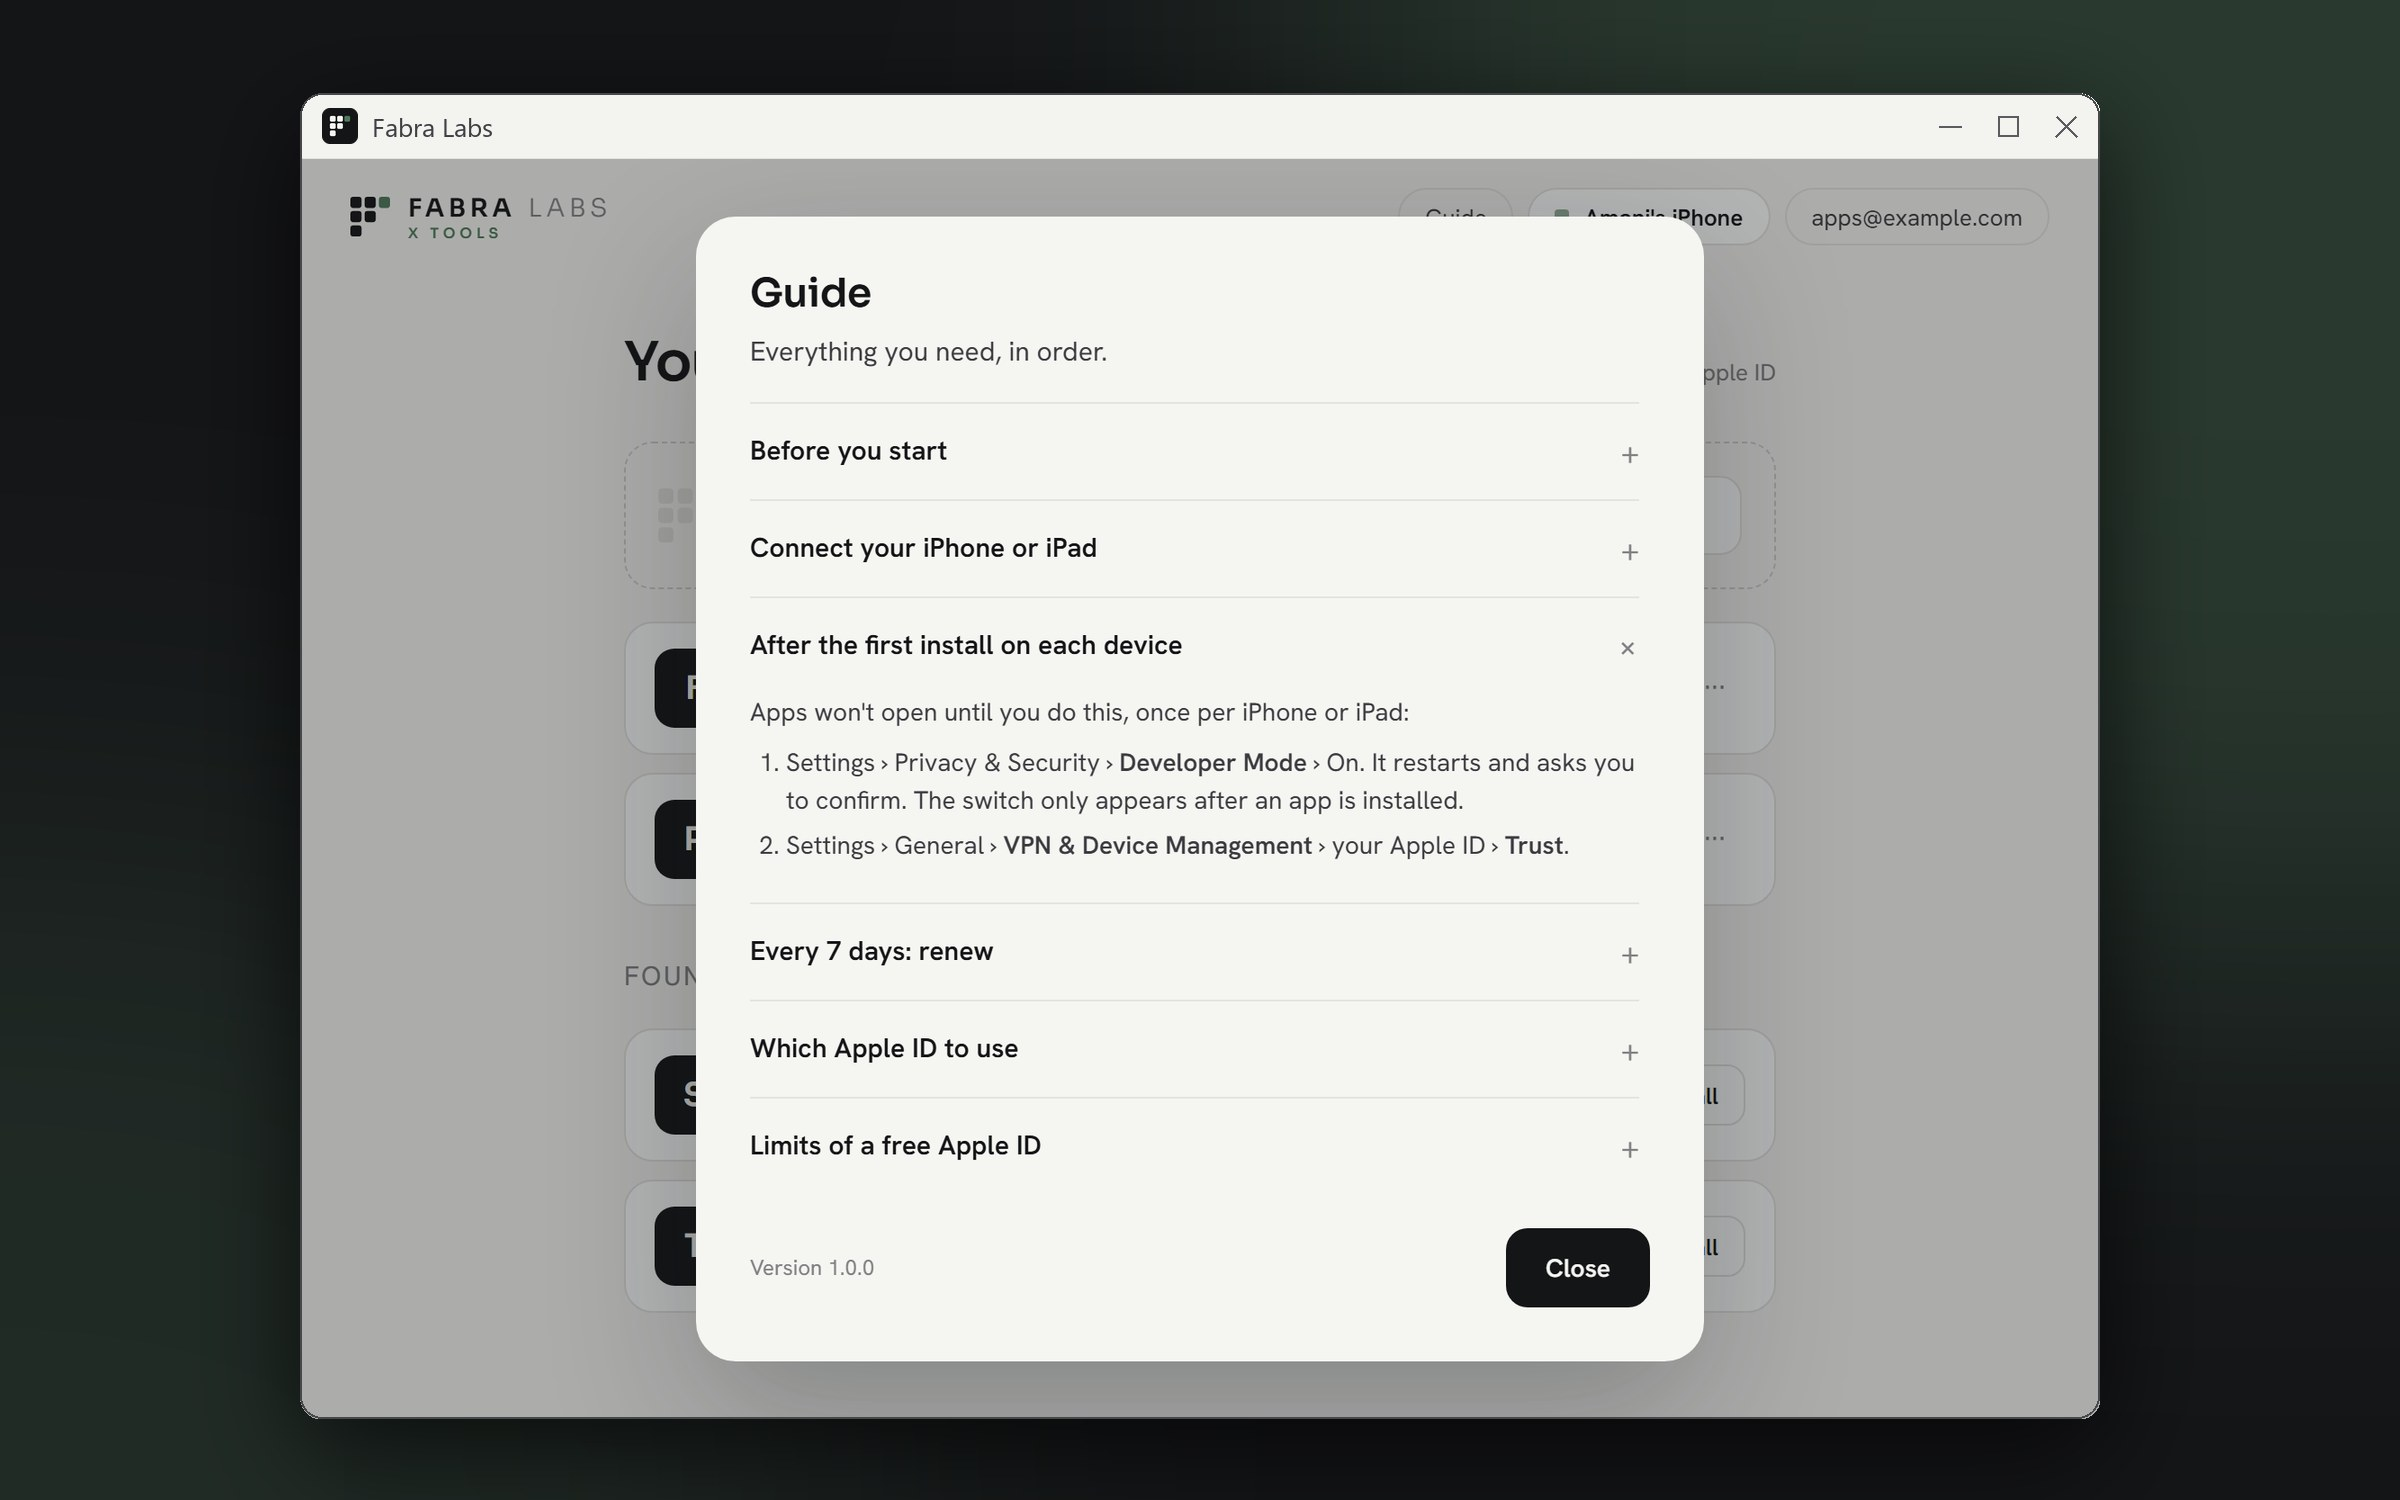
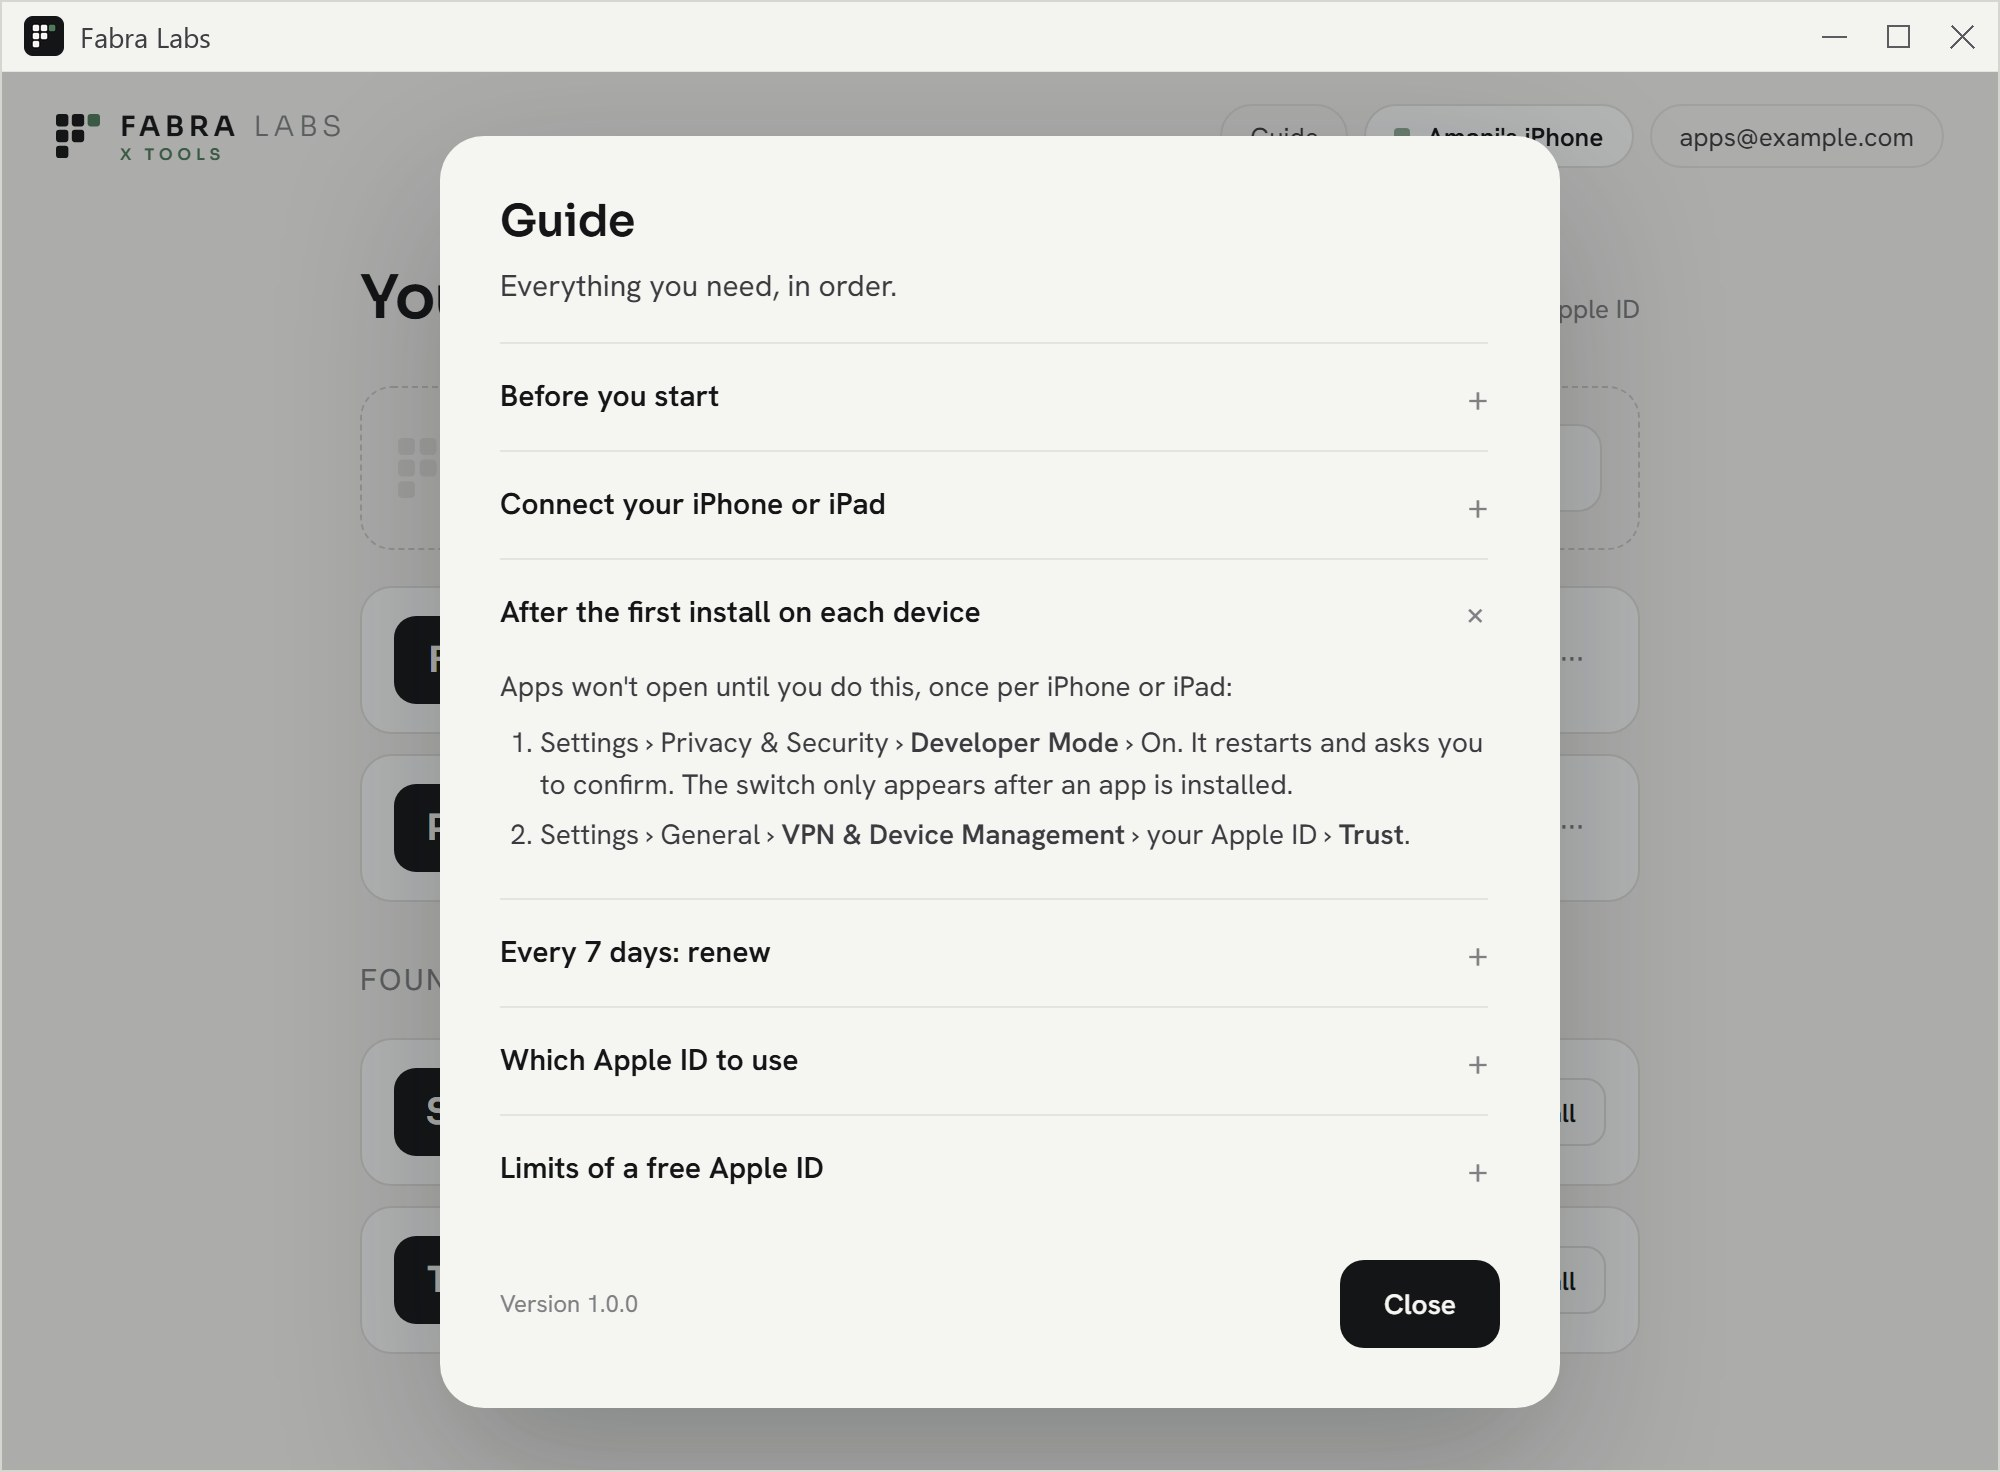
Work: one stacked tile per screen project when projects mix
In All and in a category, a system, tool or website with several screens
shows as one stack (its first screen on top, the next two peeking out to
the right, or above for tall screens) with its screen count; on hover the
stack fans out a little, and a click opens the project page. Choosing the
project still shows every screen. Fabra Labs screens are now just the app
window, without the backdrop.

diff --git a/components/WorkBrowser.tsx b/components/WorkBrowser.tsx
@@ -100,6 +100,23 @@ export default function WorkBrowser({ cats, initial }: { cats: Cat[]; initial: S
     return cs.flatMap((c) => c.collections.filter((x) => !col || x === col).flatMap((x) => x.shots));
   }, [cats, cat, col]);
   const shots = useMemo(() => (sel.t ? inCol.filter(ofKind(sel.t)) : inCol), [inCol, sel.t]);
+  // Systems, tools, websites: when the view mixes projects, each project's screens
+  // become ONE stacked tile (its first screen on top) that opens the project page,
+  // so a project with many screens doesn't fill the page. One project chosen: every screen.
+  const items = useMemo(() => {
+    const out: ({ kind: 'shot'; p: Shot; i: number } | { kind: 'stack'; ps: Shot[] })[] = [];
+    const stacks = new Map<string, Shot[]>();
+    shots.forEach((p, i) => {
+      if (col || !p.linked) return void out.push({ kind: 'shot', p, i });
+      const ps = stacks.get(p.slug);
+      if (ps) return void ps.push(p);
+      const fresh = [p];
+      stacks.set(p.slug, fresh);
+      out.push({ kind: 'stack', ps: fresh });
+    });
+    // a "stack" of one is just a tile
+    return out.map((it) => (it.kind === 'stack' && it.ps.length === 1 ? { kind: 'shot' as const, p: it.ps[0], i: shots.indexOf(it.ps[0]) } : it));
+  }, [shots, col]);
   // a category with videos gets a third wheel: all, photos, videos
   const hasVideo = Boolean(cat?.collections.some((x) => x.shots.some((p) => p.video)));
 
@@ -154,7 +171,24 @@ export default function WorkBrowser({ cats, initial }: { cats: Cat[]; initial: S
       {shots.length ? (
         // every shot a landscape screen (the websites): wide tiles, three across
         <div className={`wb__grid${shots.every((p) => p.screen && p.w > p.h) ? ' wb__grid--wide' : ''}`}>
-          {shots.map((p, i) => (
+          {items.map((it) => it.kind === 'stack' ? (
+            <figure key={`stack-${it.ps[0].slug}`} className={`wb__shot wb__shot--screen wb__shot--stack${it.ps[0].w < it.ps[0].h ? ' is-tall' : ''}`}
+              style={{ '--ar': (it.ps[0].w / it.ps[0].h).toFixed(4) } as React.CSSProperties}>
+              <Link className="wb__stack" href={`/work/${it.ps[0].slug}`} onClick={() => track(`Open project · ${it.ps[0].project}`)}
+                aria-label={`${it.ps[0].project}: ${it.ps.length} screens. Open the project`}>
+                {/* the next two screens peek out behind the first, like a stack of cards */}
+                {it.ps.slice(1, 3).reverse().map((p, k, back) => (
+                  <span key={p.src} className={`wb__stack-card wb__stack-card--${back.length - k}`} aria-hidden="true">
+                    <img src={p.src} alt="" width={p.w} height={p.h} loading="lazy" />
+                  </span>
+                ))}
+                <span className="wb__media"><img src={it.ps[0].src} alt={it.ps[0].alt} width={it.ps[0].w} height={it.ps[0].h} loading="eager" /></span>
+              </Link>
+              <Link className="wb__shot-link mono" href={`/work/${it.ps[0].slug}`} onClick={() => track(`Open project · ${it.ps[0].project}`)}>
+                <span>{it.ps[0].project}</span><span className="wb__stack-count">{it.ps.length} screens <span aria-hidden="true">↗</span></span>
+              </Link>
+            </figure>
+          ) : (({ p, i }) => (
             <figure key={p.src} className={`wb__shot${p.video ? ' wb__shot--video' : ''}${p.screen ? ' wb__shot--screen' : ''}`} style={p.screen ? { '--ar': (p.w / p.h).toFixed(4) } as React.CSSProperties : undefined}>
               <button type="button" onClick={() => { setViewing(i); track(`View ${p.video ? 'video' : 'photo'} · ${p.project}`); }}
                 aria-label={`View ${p.project}, ${p.video ? 'video' : 'photo'} ${p.n}: ${p.alt}`}
@@ -174,7 +208,7 @@ export default function WorkBrowser({ cats, initial }: { cats: Cat[]; initial: S
                 </Link>
               )}
             </figure>
-          ))}
+          ))(it))}
         </div>
       ) : (
         <p className="wb__empty lead">Coming soon.</p>

diff --git a/app/globals.css b/app/globals.css
@@ -727,6 +727,37 @@ body.menu-open .site-header--over-work .wordmark { opacity: 1 !important; pointe
 .wb__grid--wide .wb__shot--screen button:hover img { transform: scale(1.08); }
 @media (max-width: 1000px) { .wb__grid--wide { grid-template-columns: repeat(2, minmax(0, 1fr)); } }
 @media (max-width: 720px) { .wb__grid--wide { grid-template-columns: minmax(0, 1fr); } }
+/* a project's screens as one stack: the first on top, the next two peeking out
+   behind it (to the right for landscape screens, above for tall ones); on hover
+   they fan out a little further, and a click opens the project page */
+.wb__stack {
+  display: grid; place-items: center; width: 100%; aspect-ratio: 4 / 5; container-type: size;
+  background: var(--paper-deep); overflow: hidden; cursor: pointer;
+}
+.wb__stack:focus-visible { outline: 1px solid var(--ink); outline-offset: 3px; }
+.wb__shot--stack .wb__media, .wb__stack-card {
+  grid-area: 1 / 1; width: min(76cqw, calc(76cqh * var(--ar))); aspect-ratio: var(--ar); height: auto;
+  overflow: hidden; border-radius: 6px; box-shadow: 0 1px 2px rgba(21, 20, 18, .08), 0 10px 28px rgba(21, 20, 18, .12);
+  transition: transform .7s var(--ease), filter .7s var(--ease);
+}
+.wb__stack-card img { width: 100%; height: 100%; object-fit: cover; }
+.wb__shot--stack .wb__media { transform: translateX(-8cqw); }
+.wb__stack-card--1 { transform: translateX(2cqw) scale(.9); filter: brightness(.9); }
+.wb__stack-card--2 { transform: translateX(11cqw) scale(.8); filter: brightness(.8); }
+.wb__stack:hover .wb__media { transform: translateX(-10cqw) scale(1.02); }
+.wb__stack:hover .wb__stack-card--1 { transform: translateX(5cqw) scale(.91) rotate(1.5deg); }
+.wb__stack:hover .wb__stack-card--2 { transform: translateX(15cqw) scale(.81) rotate(3deg); }
+/* tall screens (phones) stack upwards instead */
+.wb__shot--stack.is-tall .wb__media { width: min(64cqw, calc(64cqh * var(--ar))); transform: translateY(5cqh); }
+.wb__shot--stack.is-tall .wb__stack-card { width: min(64cqw, calc(64cqh * var(--ar))); }
+.wb__shot--stack.is-tall .wb__stack-card--1 { transform: translateY(-2cqh) scale(.9); }
+.wb__shot--stack.is-tall .wb__stack-card--2 { transform: translateY(-9cqh) scale(.8); }
+.wb__shot--stack.is-tall .wb__stack:hover .wb__media { transform: translateY(6cqh) scale(1.02); }
+.wb__shot--stack.is-tall .wb__stack:hover .wb__stack-card--1 { transform: translateY(-3cqh) scale(.93) rotate(-1.5deg); }
+.wb__shot--stack.is-tall .wb__stack:hover .wb__stack-card--2 { transform: translateY(-10cqh) scale(.85) rotate(1.5deg); }
+.wb__shot--stack .wb__media img { transform: none !important; }
+.wb__stack-count { flex: none; color: var(--muted, inherit); }
+@media (prefers-reduced-motion: reduce) { .wb__shot--stack .wb__media, .wb__stack-card { transition: none; } }
 /* systems and websites: the project's name under the tile, never wider than it */
 .wb__shot-link {
   display: flex; align-items: baseline; justify-content: space-between; gap: .5rem; max-width: 100%;
